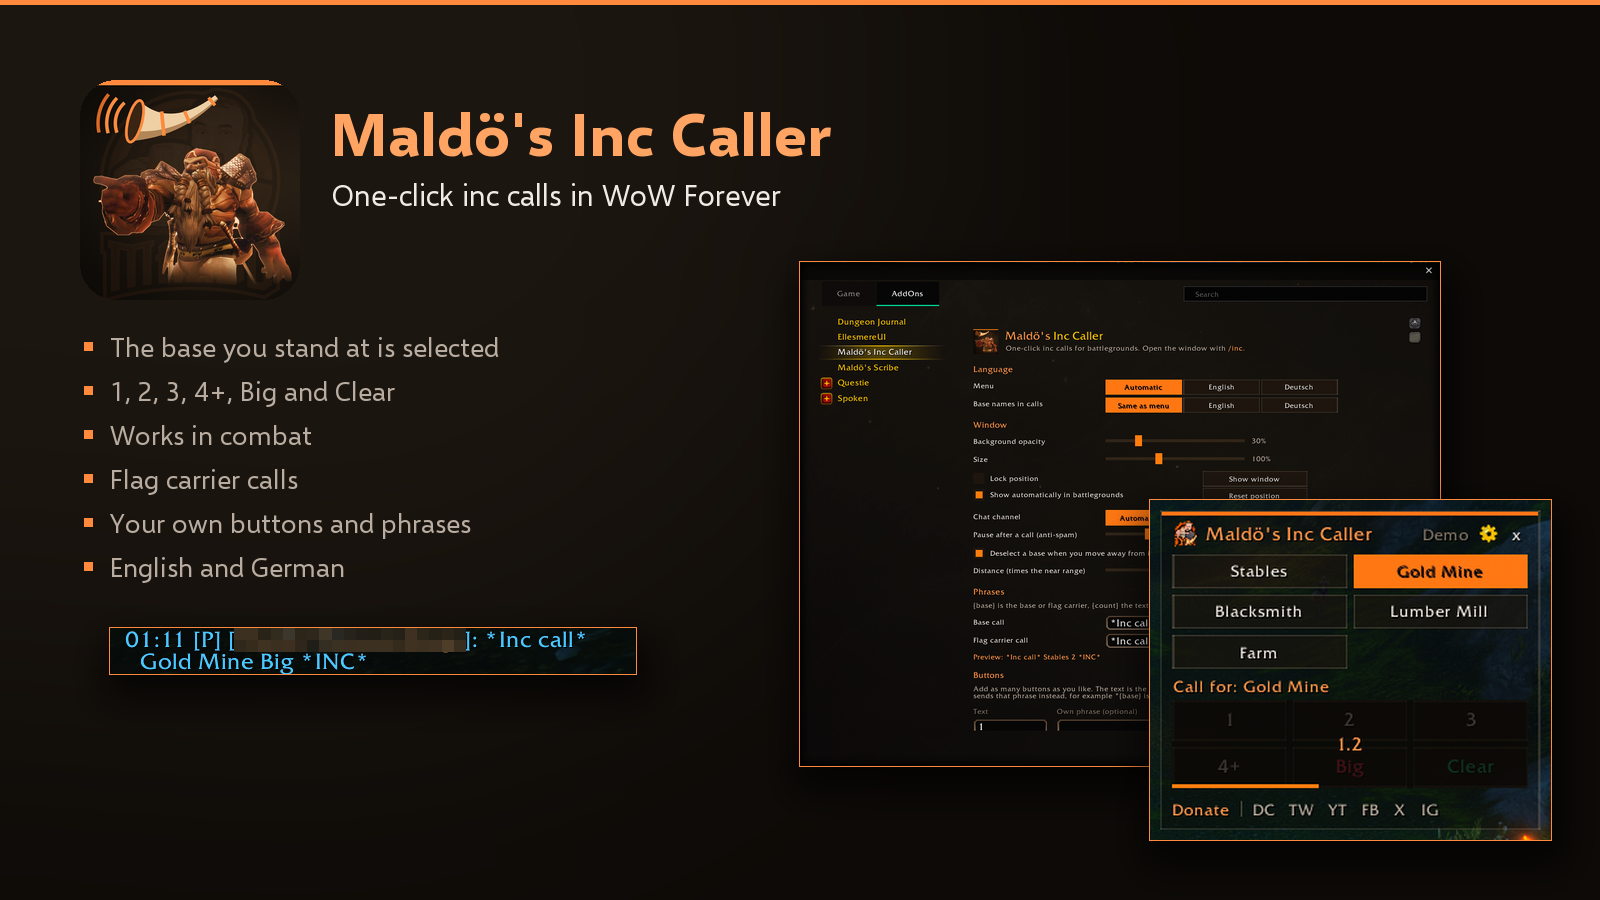
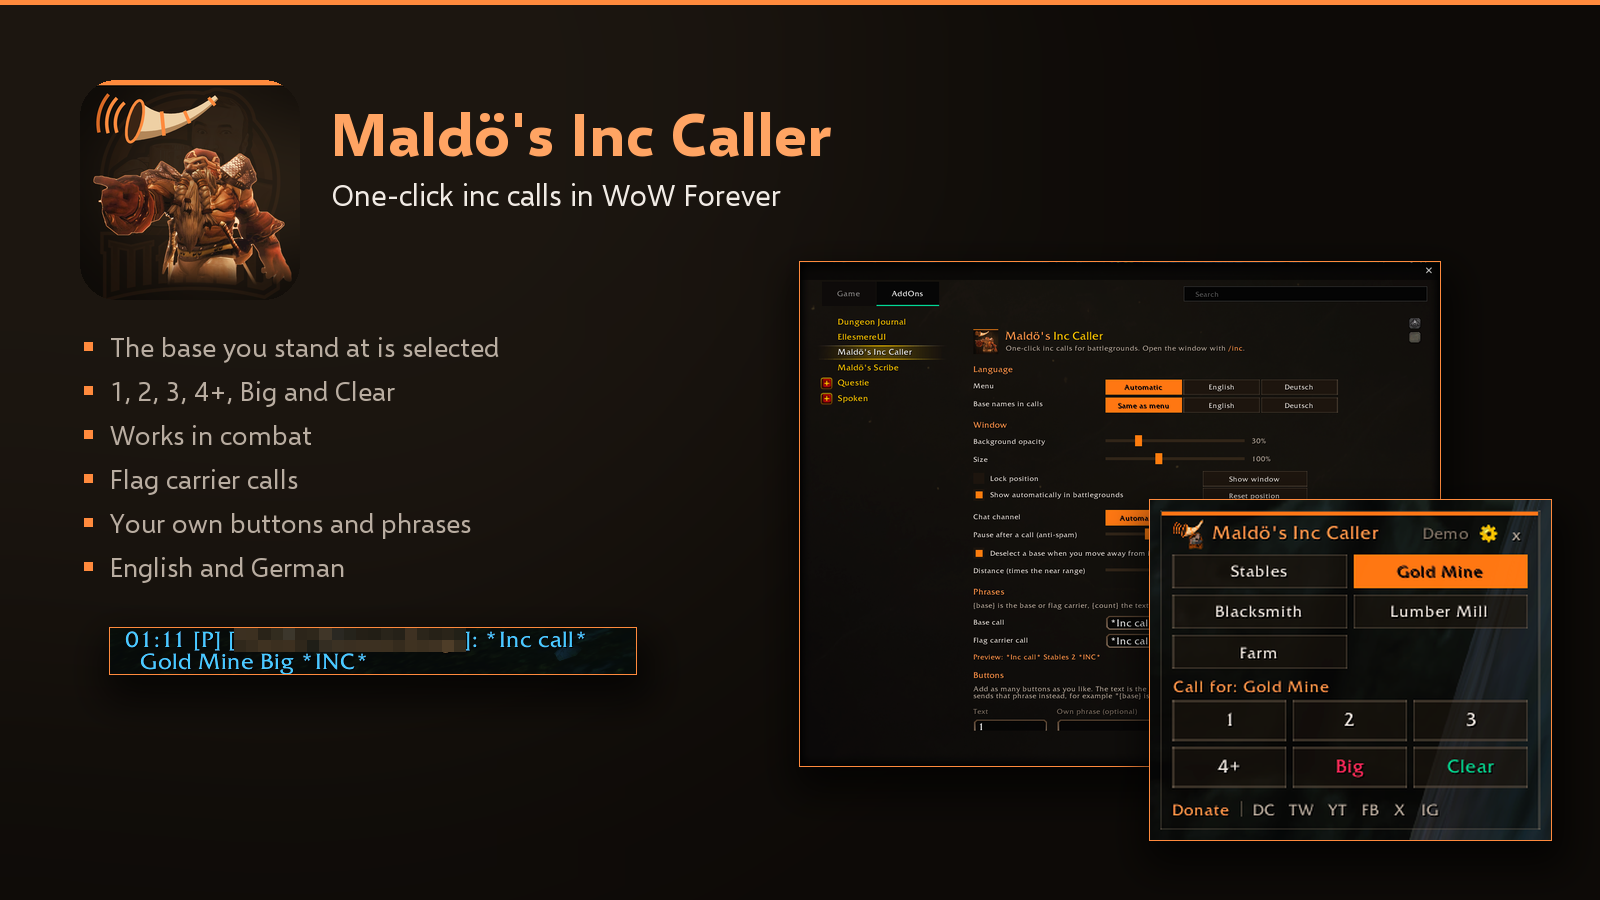
Show the war horn in the window header, add screenshots and cover

diff --git a/README.md b/README.md
@@ -29,7 +29,7 @@ one click:
 
 | The window | The call in chat |
 | --- | --- |
-| ![The window: Gold Mine is selected and the buttons pause after a call](docs/screenshots/window-call.png) | ![The call in party chat](docs/screenshots/call-chat.png) |
+| ![The window: Gold Mine is selected, the call buttons are ready](docs/screenshots/window.png) | ![The call in party chat](docs/screenshots/call-chat.png) |
 
 ![The options page](docs/screenshots/options.png)
 
